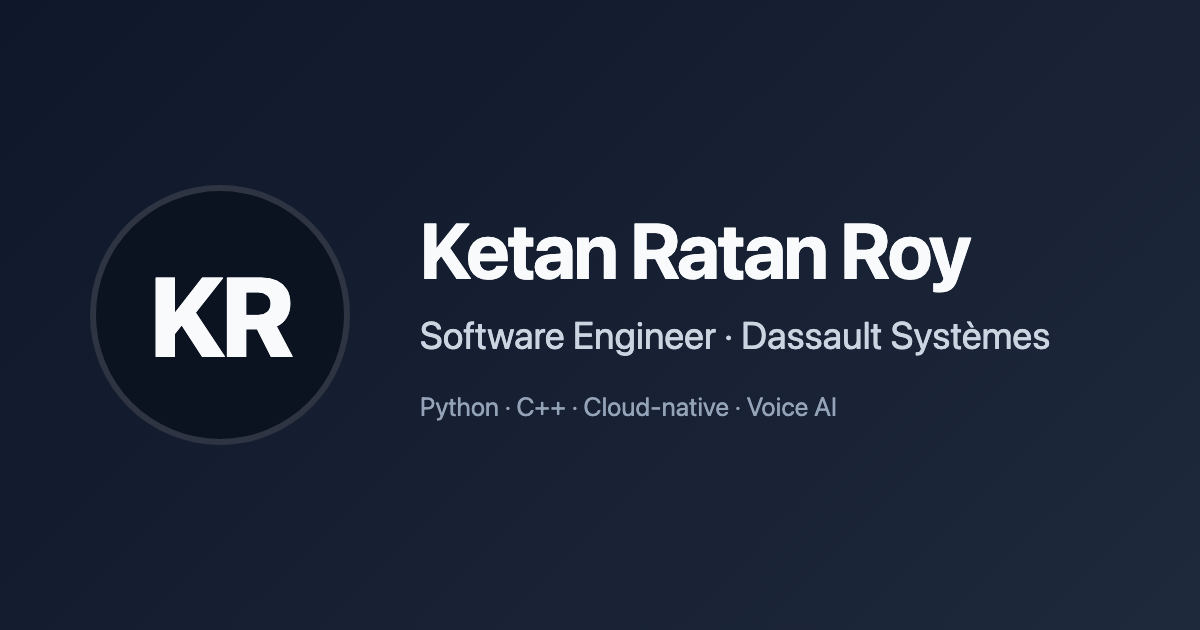
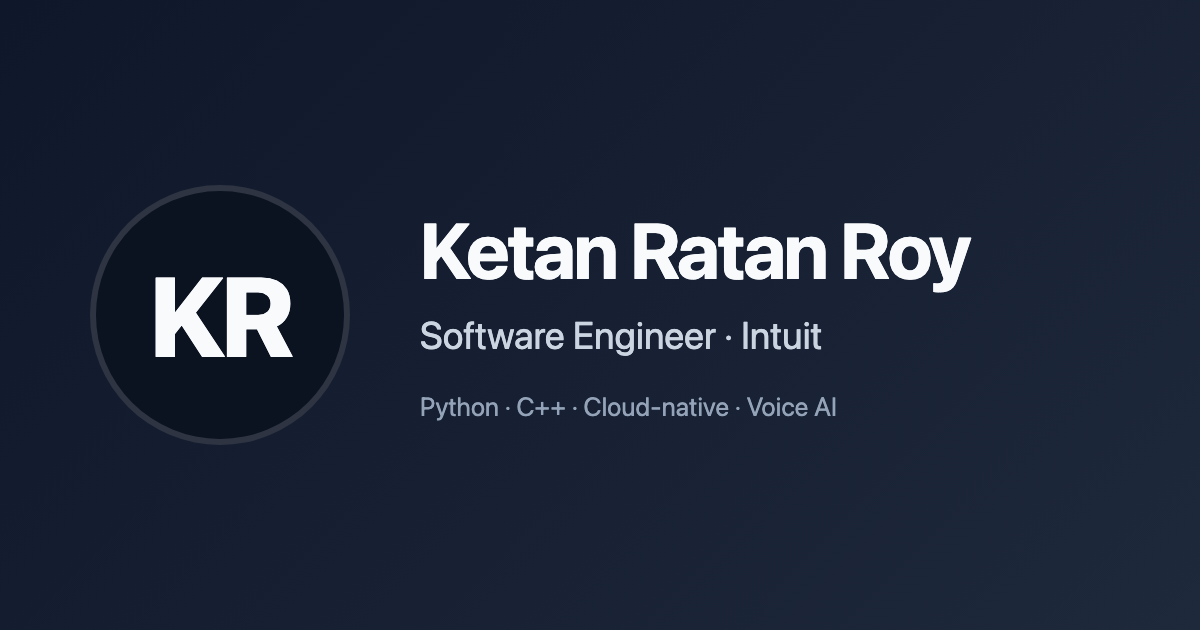
Update work status: Software Engineer at Intuit
Add the Intuit role (June 2026 to present, Bengaluru, hybrid), end the
Dassault Systèmes role at June 2026, and update the hero, About text,
README and OG image to match. Make work accordion keys unique so the
two Dassault entries no longer share a value and open together.

Changed region(s): [[0.6167, 0.5127, 0.8942, 0.573]]

diff --git a/src/data/resume.tsx b/src/data/resume.tsx
@@ -18,12 +18,12 @@ export const DATA = {
   name: "Ketan Ratan Roy - Software Engineer",
   initials: "KR",
   url: "https://ketan-portfolio.vercel.app",
-  location: "India",
-  locationLink: "https://www.google.com/maps/place/india",
+  location: "Bengaluru, India",
+  locationLink: "https://www.google.com/maps/place/bengaluru",
   description:
-    "Software engineer at Dassault Systèmes. I build backend services in Python and C++, cloud-native infrastructure and real-time voice AI.",
+    "Software engineer at Intuit in Bengaluru. Before that I built Python and C++ backend services at Dassault Systèmes, and I build cloud-native and real-time voice AI projects on the side.",
   summary:
-    "I like building the parts of a system that have to hold up: backend services, data models and the pipelines around them. I work at Dassault Systèmes, where I write Python rule-automation services and contribute to core C++ modules, after [an internship building a low-latency, NLP-driven backend](/#work) that turns spoken commands into system actions. I [graduated from NIT Rourkela](/#education), [won NorCalHacks and placed second at MLH DragonHacks](/#hackathons), and have solved 500+ problems on LeetCode (top 4.3% in a weekly contest). Outside work I build [cloud-native and real-time AI projects](/#projects), from an 8-microservice store on Amazon EKS to a voice agent that answers in under 1.2 seconds. You can also [download my résumé](/Ketan_Roy_Resume.pdf).",
+    "I like building the parts of a system that have to hold up: backend services, data models and the pipelines around them. I'm a software engineer at Intuit in Bengaluru. Before that I spent a year and a half at Dassault Systèmes, where I wrote Python rule-automation services and contributed to core C++ modules, after [an internship building a low-latency, NLP-driven backend](/#work) that turns spoken commands into system actions. I [graduated from NIT Rourkela](/#education), [won NorCalHacks and placed second at MLH DragonHacks](/#hackathons), and have solved 500+ problems on LeetCode (top 4.3% in a weekly contest). Outside work I build [cloud-native and real-time AI projects](/#projects), from an 8-microservice store on Amazon EKS to a voice agent that answers in under 1.2 seconds. You can also [download my résumé](/Ketan_Roy_Resume.pdf).",
   avatarUrl: "/avatar.svg",
   ogImage: "/og_image.png",
   sections: {
@@ -114,6 +114,17 @@ export const DATA = {
 
   work: [
     {
+      company: "Intuit",
+      href: "https://www.intuit.com",
+      badges: [] as string[],
+      location: "Bengaluru, India (Hybrid)",
+      title: "Software Engineer",
+      logoUrl: "https://www.google.com/s2/favicons?domain=intuit.com&sz=128",
+      start: "June 2026",
+      end: undefined,
+      description: "Software engineer at Intuit, based in Bengaluru.",
+    },
+    {
       company: "Dassault Systèmes",
       href: "https://www.3ds.com",
       badges: [] as string[],
@@ -121,7 +132,7 @@ export const DATA = {
       title: "Software Engineer",
       logoUrl: "https://www.google.com/s2/favicons?domain=3ds.com&sz=128",
       start: "June 2025",
-      end: undefined,
+      end: "June 2026",
       description:
         "Backend engineering in Python and C++. Designed and delivered scalable Python rule-automation services that validate complex system constraints, and wrote domain-specific-language business logic that enforces system invariants, lowering error rates by 30%. Contributed to core C++ modules for structured data modeling, replacing deprecated APIs in legacy backend logic for better performance and reliability. Implemented policy-based access control for object and attribute-level permissions and shipped security updates through Git-driven CI/CD pipelines.",
     },

diff --git a/src/components/section/work-section.tsx b/src/components/section/work-section.tsx
@@ -34,8 +34,8 @@ export default function WorkSection() {
     <Accordion type="single" collapsible className="w-full grid gap-6">
       {DATA.work.map((work) => (
         <AccordionItem
-          key={work.company}
-          value={work.company}
+          key={`${work.company}-${work.title}-${work.start}`}
+          value={`${work.company}-${work.title}-${work.start}`}
           className="w-full border-b-0 grid gap-2"
         >
           <AccordionTrigger className="hover:no-underline p-0 cursor-pointer transition-colors rounded-none group [&>svg]:hidden">

diff --git a/README.md b/README.md
@@ -1,6 +1,6 @@
 # Ketan Ratan Roy - Portfolio
 
-Personal portfolio for Ketan Ratan Roy, software engineer at Dassault Systèmes.
+Personal portfolio for Ketan Ratan Roy, software engineer at Intuit.
 
 Built on the open-source [Starfolio](https://github.com/webrating/starfolio) template (MIT) with Astro, React, Tailwind CSS v4, shadcn/ui and MDX. Deployed on Vercel.
 
